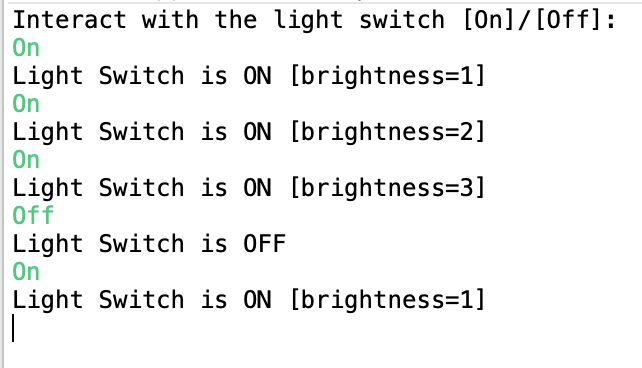
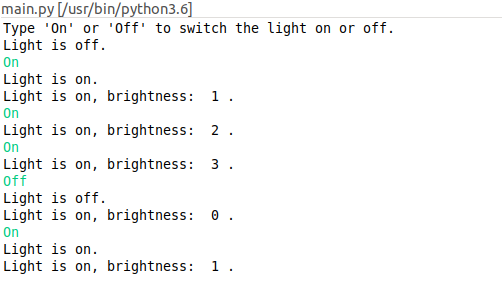
update Python

Changed region(s): [[0.0, 0.0, 1.0, 1.0], [0.4183, 0.9078, 0.4482, 0.9645], [0.4183, 0.5674, 0.4482, 0.5957]]

diff --git a/org.yakindu.sct.examples.codegen.python/index.html b/org.yakindu.sct.examples.codegen.python/index.html
@@ -1,84 +1,75 @@
 <!DOCTYPE html>
 <html lang="en">
 <head>
-<meta charset="UTF-8">
-<title>Python Code Generation</title>
-<link href="../css/style.css" rel="stylesheet">
-<link href="../css/custom.css" rel="stylesheet">
+	<meta charset="UTF-8">
+	<title>Python Code Generation</title>
+	<link href="../css/style.css" rel="stylesheet">
+	<link href="../css/custom.css" rel="stylesheet">
 </head>
 <body class="body-container">
-  <div class="primary">
+	<div class="primary">
 
-    <h1>Python Code Generation</h1>
+		<h1>Python Code Generation</h1>
 
-    <p>This example demonstrates how to generate Python code from a statechart. We will use a simple light switch example and focus on the generator model.</p>
+		<p>This example demonstrates how to generate Python code from a statechart. We will use a simple light switch example and focus on the generator model.</p>
 
-    <h2>Generator Model</h2>
-    <p>
-    In order to generate code we need to specify which code generator to use and into which folder to generate. For this, we need to create a so-called generator model. To do so, 
-    <ul>
-    <li>Select the models folder in the <em>Project Explorer</em></li>
-    <li>Right-click and choose <em>New -> Code generator model</em></li>
-    <li>Follow the wizard to select the Python code generator and the state machine for which you want to generate Python code</li>
-    </ul>
-    </p>
-    
-    <p>
-    The new generator model will look similar to this one:
-    </p>
-    <p>
-    <code>
-	GeneratorModel for yakindu::python { </br>
-	&nbsp; statechart LightSwitch { </br>
-	&nbsp; &nbsp; feature Outlet { </br>
-	&nbsp; &nbsp; &nbsp; targetProject = "org.yakindu.sct.examples.codegen.python" </br>
-	&nbsp; &nbsp; &nbsp; targetFolder = "" </br>
-	&nbsp; &nbsp; } </br>
-	&nbsp; } </br>
-	} </br>
-	</code>
+		<h2>Generator Model</h2>
+		<p>
+			In order to generate code we need to specify which code generator to use and into which folder to generate. For this, we need to create a so-called generator model. To do so, 
+			<ul>
+				<li>Select the models folder in the <em>Project Explorer</em></li>
+				<li>Right-click and choose <em>New -> Code generator model</em></li>
+				<li>Follow the wizard to select the Python code generator and the state machine for which you want to generate Python code</li>
+			</ul>
+		</p>
+
+		<p>
+			The new generator model will look similar to this one:
+		</p>
+		<p>
+			<script src="https://gist-it.appspot.com/github/Yakindu/examples/blob/release4/org.yakindu.sct.examples.codegen.c/models/c.sgen"></script>
+		</p>
+		<p>
+			This is the simplest possible generator model. Besides setting up the target location, the generator model allows you to adjust several aspects of the generated code like naming, license comments or function inlining. Press [CTRL]+[SPACE] to get a list of available features. For more information, please refer to our <a href="https://www.itemis.com/en/yakindu/state-machine/documentation/user-guide/codegen_python_code_generator#codegen_python_code_generator_features">documentation</a>.
+		</p>
+
+		<h2>Invoking Code Generation</h2>
+		<p>
+			Code generation is usually invoked each time the statechart model is saved. This behavior can be disabled by unchecking the option <em>Project -> Build Automatically</em>. You can always manually invoke the code generation with <em>Generate Code Artifacts</em> in the context menu of the generator model.
+		</p>
+
+		<h2>The Example Application</h2>
+		<p>
+			As an example application we will use the light switch example with brightness adjustment from the <a href="../examples/org-yakindu-sct-examples-basic-tutorial?exampleId=org.yakindu.sct.examples.lightswitch_series">Basic Tutorial</a>.
+		</p>
+		<img class="large" 
+		alt="Light switch model" title="Light switch model" border="0" src="images/model.png"/>
 	</p>
 	<p>
-	This is the simplest possible generator model. Line 1 defines which code generator to use. Line 3 refers to the statechart model. Lines 6 and 7 specify the target location for the generated artifacts.
+		Our application is a simple interactive console with which the user can switch the light on or off. The complete application code is implemented in <code>main.py</code>:
 	</p>
-	<p>
-	Besides setting up the target location, the generator model allows you to adjust several aspects of the generated code like naming, license comments or function inlining. Press [Ctrl]+[Space] to get a list of available features. For more information, please refer to our <a href="https://www.itemis.com/en/yakindu/state-machine/documentation/user-guide/codegen_python_code_generator#codegen_python_code_generator_features">documentation</a>.
-	</p>
-	
-	<h2>Invoking Code Generation</h2>
-	<p>
-	Code generation is usually invoked each time the statechart model is saved. This behavior can be disabled by unchecking the option <em>Project -> Build Automatically</em>. You can always manually invoke the code generation with <em>Generate Code Artifacts</em> in the context menu of the generator model.
-	</p>
-	
-	<h2>The Example Application</h2>
-	<p>
-	As an example application we will use the light switch example with brightness adjustment from the <a href="../examples/org-yakindu-sct-examples-basic-tutorial?exampleId=org.yakindu.sct.examples.lightswitch_series">Basic Tutorial</a>.
-	</p>
-	<img class="large" 
-	alt="Light switch model" title="Light switch model" border="0" src="images/model.png"/>
-	</p>
-	<p>
-	Our application is a simple interactive console with which the user can switch the light on or off. The complete application code is implemented in <code>main.py</code>:
-	</p>
-	</p>
-	<img class="large" 
-	alt="Application code" title="Application code" border="0" src="images/application-code.png"/>
-	</p>
-	The interesting parts are the following:
+</p>
+<p>
+	<script src="https://gist-it.appspot.com/github/Yakindu/examples/blob/release4/org.yakindu.sct.examples.codegen.python/src/main.py"></script>
+</p>
+<p>
+	The most important parts are commented in the <code>main.c</code> file. These are the bullet points:
 	<ul>
-	<li>Line 8 instantiates the state machine</li>
-	<li>Line 12 initiailizes the state machine, in particular all variables are set to a proper value</li>
-	<li>Line 13 enters the state machine; from this point on the state machine is ready to react on incoming events</li>
-	<li>Line 19 raises the <code>On</code> event in the state machine which causes the corresponding transition to be taken</li>
-	<li>Line 22 raises the <code>Off</code> event in the state machine</li>
+		<li>Instantiate the state machine and the observers</li>
+		<li>Initializes the state machine, in particular all variables are set to a proper value</li>
+		<li>Subscribe observers</li>
+		<li>Enters the state machine; from this point on the state machine is ready to react on incoming event</li>
+		<li>Raise the input events <code>user.on_button</code> and <code>user.off_button</code></li>
+		<li>React on the out events <code>light.on</code> and <code>light.off</code></li>
 	</ul>
-	<p>
+</p>
+<p>
 	You can run the application with <em>Run As -> Python Run</em> on the <code>main.py</code> file. A console should open and ask you for input like in the screenshot below.
-	</p>
-	</p>
-	<img class="tiny" 
-	alt="Light switch console application" title="Light switch console application" border="0" src="images/console.png"/>
-	</p>
-  </div>
+</p>
+</p>
+<img class="small" 
+alt="Light switch console application" title="Light switch console application" border="0" src="images/console.png"/>
+</p>
+</div>
 </body>
 </html>

diff --git a/org.yakindu.sct.examples.codegen.python/src/main.py b/org.yakindu.sct.examples.codegen.python/src/main.py
@@ -2,36 +2,58 @@ import sys, os
 path_to_statemachine = '../src-gen/LightSwitch'
 sys.path.insert(0, os.path.abspath(os.path.join(os.path.dirname(__file__), path_to_statemachine)))
 from lightswitch.light_switch import LightSwitch
+from lightswitch.rx_python import Observer
 
 class Main:
+    
+    # Observer with callback for the light.on event 
+    class LightOnObserver(Observer):
+        def next(self):
+            print("Light is on.")
+
+    # Observer with callback for the light.off event 
+    class LightOffObserver(Observer):
+        def next(self):
+            print("Light is off.")
+        
+    
     def __init__(self):
+        # Instantiates the state machine 
         self.sm = LightSwitch()
+        # Instantiates observer for the out events 
+        self.lightOnObserver = self.LightOnObserver()
+        self.lightOffObserver = self.LightOffObserver()
         
     def setup(self):
-        print("Interact with the light switch [On]/[Off]:")
+        # Initializes the state machine, in particular all variables are set to a proper value 
         self.sm.init()
+        # Subscribes observers to the state machine's observables 
+        self.sm.sci_light.on_observable.subscribe(self.lightOnObserver)
+        self.sm.sci_light.off_observable.subscribe(self.lightOffObserver)
+        # Enters the state machine; from this point on the state machine is ready to react on incoming event 
         self.sm.enter()
 
     def run(self):
+        print("Type 'On' or 'Off' to switch the light on or off.")
         while not self.sm.is_final() :
             self.input = input()
             if self.input == 'On':
+                # Raises the On event in the state machine which causes the corresponding transition to be taken 
                 self.sm.sci_user.raise_on_button()
                 self.print_status()
             elif self.input == 'Off':
+                # Raises the Off event in the state machine 
                 self.sm.sci_user.raise_off_button()
                 self.print_status()
         self.shutdown()
     
     def shutdown(self):
         self.sm.exit()
-        print("Bye!")
         
     def print_status(self):
-        if(self.sm.is_state_active(self.sm.State.main_region_on)): 
-            print("Light Switch is On  [brightness =", self.sm.sci_user.brightness, "]")
-        else:
-            print("Light Switch is Off")
+        # Gets the value of the brightness variable 
+        brightness = self.sm.sci_light.brightness
+        print("Light is on, brightness: ", brightness, ".")
             
 
 if __name__ == '__main__':
